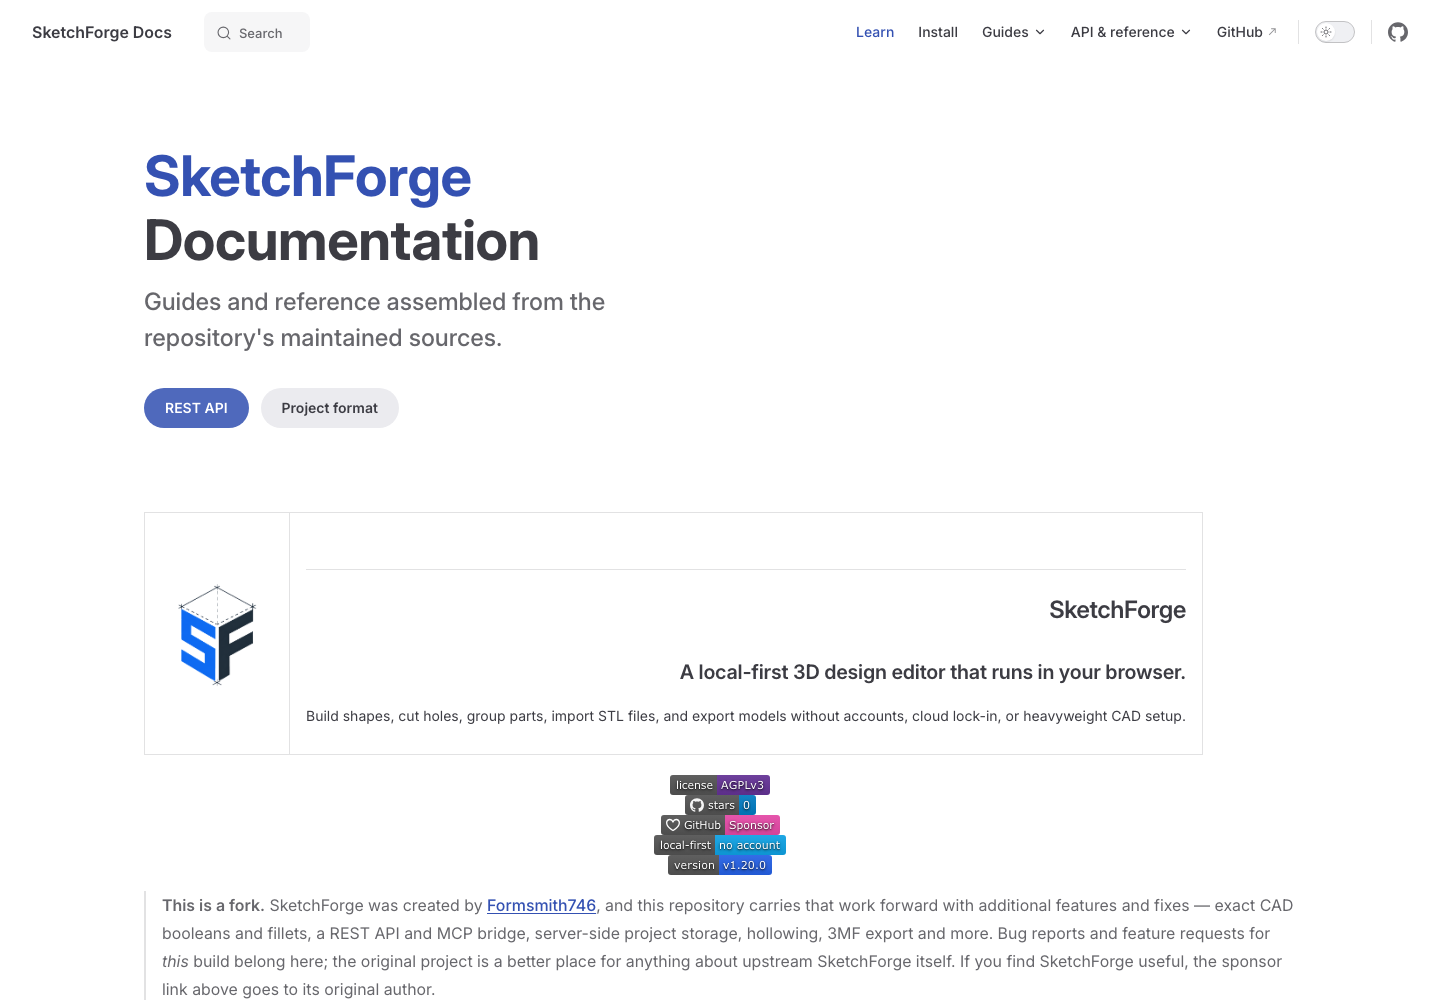
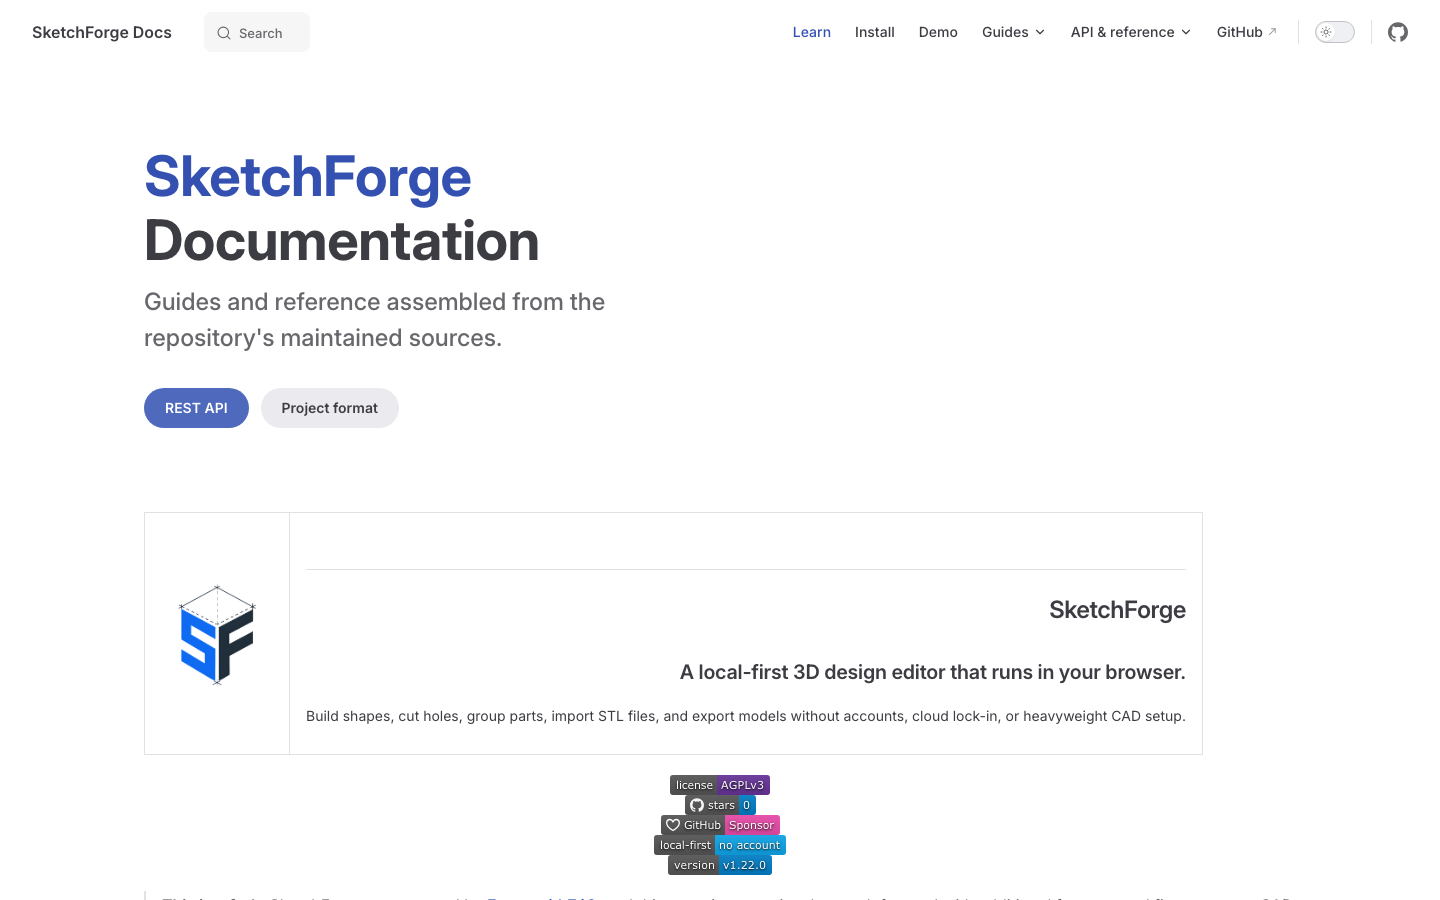
feat: publish editor demo on GitHub Pages (#319)

diff --git a/tests/unit/staticExportBuild.test.ts b/tests/unit/staticExportBuild.test.ts
@@ -1,5 +1,7 @@
 import { readdir, readFile } from "node:fs/promises";
 import { describe, expect, it } from "vitest";
+import { resolveStaticExportBasePath } from "../../apps/web/next.config";
+import { publicAssetPath, withAppBasePath } from "@/lib/publicAssetPath";
 
 const repositoryRoot = new URL("../../", import.meta.url);
 
@@ -43,5 +45,38 @@ describe("static export build", () => {
     // the variable unset, and the script builds a server bundle while claiming
     // to build the static export.
     expect(packageJson.scripts.export).not.toMatch(/(^|\s)set\s+\w+=/);
+  });
+});
+
+describe("static export base path", () => {
+  it("uses a validated path only for static exports", () => {
+    expect(resolveStaticExportBasePath({
+      STATIC_EXPORT: "true",
+      STATIC_EXPORT_BASE_PATH: "/SketchForge-3D/Demo",
+    })).toBe("/SketchForge-3D/Demo");
+    expect(resolveStaticExportBasePath({
+      STATIC_EXPORT: "false",
+      STATIC_EXPORT_BASE_PATH: "/SketchForge-3D/Demo",
+    })).toBeUndefined();
+    expect(resolveStaticExportBasePath({ STATIC_EXPORT: "true" })).toBeUndefined();
+  });
+
+  it("rejects malformed paths that would produce broken Pages asset URLs", () => {
+    for (const path of ["SketchForge-3D/Demo", "/SketchForge-3D/Demo/", "/SketchForge-3D//Demo", "/Demo?query"]) {
+      expect(() => resolveStaticExportBasePath({
+        STATIC_EXPORT: "true",
+        STATIC_EXPORT_BASE_PATH: path,
+      })).toThrow(/STATIC_EXPORT_BASE_PATH/);
+    }
+  });
+
+  it("prefixes public assets for a nested static export and leaves other URLs alone", () => {
+    expect(publicAssetPath("/assets/sketchforge/sketchforge-logo-white.png", "/SketchForge-3D/Demo"))
+      .toBe("/SketchForge-3D/Demo/assets/sketchforge/sketchforge-logo-white.png");
+    expect(publicAssetPath("https://example.com/logo.png", "/SketchForge-3D/Demo"))
+      .toBe("https://example.com/logo.png");
+    expect(publicAssetPath("/assets/logo.png")).toBe("/assets/logo.png");
+    expect(withAppBasePath("/?editor=1", "/SketchForge-3D/Demo"))
+      .toBe("/SketchForge-3D/Demo/?editor=1");
   });
 });

diff --git a/apps/web/src/components/official/ChallengesDashboard.tsx b/apps/web/src/components/official/ChallengesDashboard.tsx
@@ -3,6 +3,7 @@
 import { AlignCenter, Box, CircleDotDashed, Group, LockKeyhole, MoveUp, Type } from "lucide-react";
 import { useTranslations } from "@/i18n";
 import type { ChallengeTutorialId } from "@/lib/challenges";
+import { publicAssetPath } from "@/lib/publicAssetPath";
 
 function KeyTagPreview() {
   const t = useTranslations();
@@ -10,12 +11,12 @@ function KeyTagPreview() {
     <>
       <img
         className="challenge-key-tag-photo challenge-key-tag-photo-light"
-        src="/assets/challenges/key-tag/card-key-tag-light.webp"
+        src={publicAssetPath("/assets/challenges/key-tag/card-key-tag-light.webp")}
         alt={t("dashboard.challenges.keyTag.altLight")}
       />
       <img
         className="challenge-key-tag-photo challenge-key-tag-photo-dark"
-        src="/assets/challenges/key-tag/card-key-tag-dark.webp"
+        src={publicAssetPath("/assets/challenges/key-tag/card-key-tag-dark.webp")}
         alt={t("dashboard.challenges.keyTag.altDark")}
       />
     </>
@@ -28,12 +29,12 @@ function NameplatePreview() {
     <>
       <img
         className="challenge-key-tag-photo challenge-key-tag-photo-light"
-        src="/assets/challenges/nameplate/card-nameplate-light.webp"
+        src={publicAssetPath("/assets/challenges/nameplate/card-nameplate-light.webp")}
         alt={t("dashboard.challenges.nameplate.altLight")}
       />
       <img
         className="challenge-key-tag-photo challenge-key-tag-photo-dark"
-        src="/assets/challenges/nameplate/card-nameplate-dark.webp"
+        src={publicAssetPath("/assets/challenges/nameplate/card-nameplate-dark.webp")}
         alt={t("dashboard.challenges.nameplate.altDark")}
       />
     </>

diff --git a/apps/web/next.config.ts b/apps/web/next.config.ts
@@ -1,8 +1,29 @@
 import type { NextConfig } from "next";
 import path from "node:path";
 
+export function resolveStaticExportBasePath(environment: Record<string, string | undefined>): string | undefined {
+  if (environment.STATIC_EXPORT !== "true") return undefined;
+
+  const basePath = environment.STATIC_EXPORT_BASE_PATH?.trim();
+  if (!basePath) return undefined;
+
+  if (
+    !basePath.startsWith("/")
+    || basePath === "/"
+    || basePath.startsWith("//")
+    || basePath.endsWith("/")
+    || basePath.includes("//")
+    || /[\\?#]/.test(basePath)
+  ) {
+    throw new Error("STATIC_EXPORT_BASE_PATH must be a path like /SketchForge-3D/Demo without a trailing slash.");
+  }
+
+  return basePath;
+}
+
 const isStaticExport = process.env.STATIC_EXPORT === "true";
 const isDockerBuild = process.env.SKETCHFORGE_DOCKER_BUILD === "true";
+const staticExportBasePath = resolveStaticExportBasePath(process.env);
 const extraAllowedDevOrigins = (process.env.SKETCHFORGE_ALLOWED_DEV_ORIGINS ?? "")
   .split(",")
   .map((origin) => origin.trim())
@@ -18,6 +39,7 @@ const nextConfig: NextConfig = {
   allowedDevOrigins: ["localhost", "127.0.0.1", ...extraAllowedDevOrigins],
   env: {
     NEXT_PUBLIC_STATIC_EXPORT: isStaticExport ? "true" : "false",
+    NEXT_PUBLIC_STATIC_EXPORT_BASE_PATH: staticExportBasePath ?? "",
   },
   images: {
     unoptimized: true
@@ -44,6 +66,7 @@ const nextConfig: NextConfig = {
     ? {
         output: "export" as const,
         trailingSlash: true,
+        ...(staticExportBasePath ? { basePath: staticExportBasePath } : {}),
       }
     : isDockerBuild
       ? { output: "standalone" as const }

diff --git a/apps/web/src/app/page.tsx b/apps/web/src/app/page.tsx
@@ -30,6 +30,7 @@ import { isChallengeTutorialId, type ChallengeTutorialId } from "@/lib/challenge
 import { editorHistoryForAutosave, hydrateEditorHistoryState, type EditorHistoryEntry } from "@/lib/engine/editorHistory";
 import { createCoalescingSaveQueue, type CoalescingSaveQueue } from "@/lib/saveQueue";
 import { createLocalId } from "@/lib/engine/localIds";
+import { publicAssetPath, withAppBasePath } from "@/lib/publicAssetPath";
 import {
   horizontalPlacementWorkplane,
   normalizePlacementWorkplane,
@@ -1068,7 +1069,7 @@ export default function Home() {
     setEditorStarted(true);
     setView("editor");
     if (typeof window !== "undefined") {
-      const nextUrl = projectId ? `/?editor=1&project=${encodeURIComponent(projectId)}` : "/?editor=1";
+      const nextUrl = `${withAppBasePath("/")}?editor=1${projectId ? `&project=${encodeURIComponent(projectId)}` : ""}`;
       window.history.replaceState(null, "", nextUrl);
     }
   };
@@ -1995,7 +1996,7 @@ function Dashboard({
     <main className="dashboard-shell">
       <header className="dashboard-topbar">
         <a className="dashboard-brand" href="./" aria-label={t("dashboard.topbar.homeLink")}>
-          <img src="/assets/sketchforge/sketchforge-logo-white.png" alt="" />
+          <img src={publicAssetPath("/assets/sketchforge/sketchforge-logo-white.png")} alt="" />
           <span>SketchForge</span>
         </a>
         <div className="dashboard-search">

diff --git a/apps/web/src/components/icons.tsx b/apps/web/src/components/icons.tsx
@@ -1,4 +1,5 @@
 import type { CSSProperties, SVGProps } from "react";
+import { publicAssetPath } from "@/lib/publicAssetPath";
 
 type IconProps = SVGProps<SVGSVGElement>;
 type SpriteRect = {
@@ -8,8 +9,8 @@ type SpriteRect = {
   height: number;
 };
 
-const toolbarSprite = "assets/sketchforge/toolbar-sprite.svg?v=2";
-const vectorToolbarSprite = "assets/sketchforge/vector-toolbar-icons.svg?v=1";
+const toolbarSprite = `${publicAssetPath("/assets/sketchforge/toolbar-sprite.svg")}?v=2`;
+const vectorToolbarSprite = `${publicAssetPath("/assets/sketchforge/vector-toolbar-icons.svg")}?v=1`;
 
 function ToolbarSpriteIcon({ rect, className, style }: IconProps & { rect: SpriteRect }) {
   const size = 35;
@@ -63,7 +64,7 @@ type ToolbarCommandImageProps = { file: string; className?: string };
 
 function ToolbarCommandImage({ file, className }: ToolbarCommandImageProps) {
   const assetClassName = `toolbar-art-${file.replace(/\.png$/i, "")}`;
-  return <img aria-hidden="true" className={["toolbar-command-icon", assetClassName, className].filter(Boolean).join(" ")} src={"/assets/sketchforge/" + file} alt="" draggable={false} />;
+  return <img aria-hidden="true" className={["toolbar-command-icon", assetClassName, className].filter(Boolean).join(" ")} src={publicAssetPath(`/assets/sketchforge/${file}`)} alt="" draggable={false} />;
 }
 
 export function ToolbarHomeIcon() {

diff --git a/apps/web/src/components/SketchForgeEditor.tsx b/apps/web/src/components/SketchForgeEditor.tsx
@@ -131,6 +131,7 @@ import { projectedMeshContours } from "@/lib/engine/svgMeshProjection";
 import { exportMeshesToObj } from "@/lib/objExport";
 import { rotateSketchPoints, selectedClosedSketchPoints } from "@/lib/sketchRotation";
 import { PROJECT_THUMBNAIL_IDLE_MS, projectThumbnailSceneChanged, type ProjectThumbnailSceneKey } from "@/lib/projectThumbnail";
+import { publicAssetPath } from "@/lib/publicAssetPath";
 import { importedShapeFromObj } from "@/lib/engine/objImport";
 import { attachProjectAsset, dedupeProjectAssets, projectAssetFromBytes, sourceFormatForFileName } from "@/lib/engine/projectAssets";
 import { findSketchOutlineIntersection } from "@/lib/sketchProfileValidation";
@@ -10126,7 +10127,7 @@ function SketchReferenceIcon({ name }: { name: SketchReferenceIconName }) {
       className="sketch-reference-icon"
       data-sketch-icon={name}
       draggable={false}
-      src={`/assets/sketchforge/${sketchReferenceIcons[name]}`}
+      src={publicAssetPath(`/assets/sketchforge/${sketchReferenceIcons[name]}`)}
       alt=""
     />
   );

diff --git a/apps/web/src/components/workplane/NameplateTutorialPanel.tsx b/apps/web/src/components/workplane/NameplateTutorialPanel.tsx
@@ -4,6 +4,7 @@ import { ArrowUp, ChevronLeft, ChevronRight } from "lucide-react";
 import { useLayoutEffect, useState } from "react";
 import { useTranslations, type MessageKey } from "@/i18n";
 import { snapGridLabel } from "@/lib/measurementUnits";
+import { publicAssetPath } from "@/lib/publicAssetPath";
 import type { GridSize } from "@/types/sketchforge";
 
 const NAMEPLATE_STEP_STORAGE_KEY = "sketchforge:nameplate-tutorial-step";
@@ -238,7 +239,7 @@ export function NameplateTutorialPanel({
         </div>
 
         <div className="key-tag-tutorial-image-box">
-          <img className="key-tag-tutorial-capture" src={step.image} alt={t(step.altKey)} draggable={false} />
+          <img className="key-tag-tutorial-capture" src={publicAssetPath(step.image)} alt={t(step.altKey)} draggable={false} />
         </div>
       </div>
 

diff --git a/apps/web/src/components/workplane/KeyTagTutorialPanel.tsx b/apps/web/src/components/workplane/KeyTagTutorialPanel.tsx
@@ -4,6 +4,7 @@ import { ChevronLeft, ChevronRight } from "lucide-react";
 import { useState } from "react";
 import { useTranslations, type MessageKey } from "@/i18n";
 import { snapGridLabel } from "@/lib/measurementUnits";
+import { publicAssetPath } from "@/lib/publicAssetPath";
 import type { GridSize } from "@/types/sketchforge";
 
 const KEY_TAG_STEP_STORAGE_KEY = "sketchforge:key-tag-tutorial-step";
@@ -200,7 +201,7 @@ export function KeyTagTutorialPanel({
         </div>
 
         <div className="key-tag-tutorial-image-box">
-          <img className="key-tag-tutorial-capture" src={step.image} alt={t(step.altKey)} draggable={false} />
+          <img className="key-tag-tutorial-capture" src={publicAssetPath(step.image)} alt={t(step.altKey)} draggable={false} />
         </div>
       </div>
 

diff --git a/apps/web/src/lib/publicAssetPath.ts b/apps/web/src/lib/publicAssetPath.ts
@@ -1,0 +1,13 @@
+/** Prefix app-owned root paths when the app is hosted below a URL path. */
+export function withAppBasePath(
+  path: string,
+  basePath = process.env.NEXT_PUBLIC_STATIC_EXPORT_BASE_PATH ?? "",
+): string {
+  if (!path.startsWith("/") || path.startsWith("//")) return path;
+  return `${basePath}${path}`;
+}
+
+/** Prefix root-relative public assets when the app is hosted below a URL path. */
+export function publicAssetPath(path: string, basePath?: string): string {
+  return withAppBasePath(path, basePath);
+}

diff --git a/docs/guides/deployment.md b/docs/guides/deployment.md
@@ -9,6 +9,10 @@ owner: "Operations"
 
 This guide covers the server and container settings operators can configure. For a complete list of supported values, defaults, sensitivity, source readers, and owning pages, see the [operator configuration reference](../OPERATOR_CONFIGURATION.md). The [Docker / FabLab Server instructions](https://github.com/constructorfleet/SketchForge-3D#docker-fablab-server-recommended) cover initial setup and compose commands.
 
+## GitHub Pages browser demo
+
+The documentation workflow also builds a static editor demo and publishes it at [`/Demo/`](https://constructorfleet.github.io/SketchForge-3D/Demo/). Its Next.js base path is set at build time to `/<repository>/Demo`, and the workflow stages the export alongside the documentation site. The editor stores each visitor's projects in that visitor's browser. Static hosting does not provide server-side project storage or the REST API; use a server deployment for those features.
+
 ## Docker listener
 
 The compose files publish container port `3000` on host port `3000` by default. Set `SKETCHFORGE_PORT` to change the host port. Inside the container, `PORT` selects the Next.js listener port, `HOSTNAME` selects its bind address, and `SKETCHFORGE_LEGACY_PORT` selects the compatibility proxy port (`80` by default). The launcher accepts ports from 1 through 65535 and falls back to its documented default for invalid values. Set the legacy port equal to `PORT` to disable the compatibility proxy. See the [port configuration example](https://github.com/constructorfleet/SketchForge-3D#use-a-different-port).

diff --git a/docs/CHANGELOG.md b/docs/CHANGELOG.md
@@ -11,6 +11,7 @@ owner: "Contributors"
 
 ## Unreleased
 
+- The GitHub Pages documentation workflow now publishes a browser-only SketchForge editor demo at `/SketchForge-3D/Demo/`, with subpath-aware static assets and a direct navigation link.
 - README now has a dedicated installation overview for the browser app, desktop releases, Docker, source checkouts, and static exports. The documentation site's top bar groups guides and references into dropdowns and links directly to installation.
 - The local MCP now exposes `sketchforge_import_stl`, which imports an STL file from the MCP host filesystem into a chosen local project.
 - Retained face drafts on straight-line, single-region, no-hole sketch extrusion

diff --git a/README.md b/README.md
@@ -54,6 +54,8 @@ Press **O** in the editor to switch between perspective and orthographic project
 
 ## Demo
 
+[Try the live browser demo](https://constructorfleet.github.io/SketchForge-3D/Demo/). The demo saves projects in your browser; server-side project storage and the REST API require a server deployment.
+
 ![SketchForge projects dashboard](https://sketchforge3d.com/assets/landing/project-dashboard.png)
 
 ## Installation
